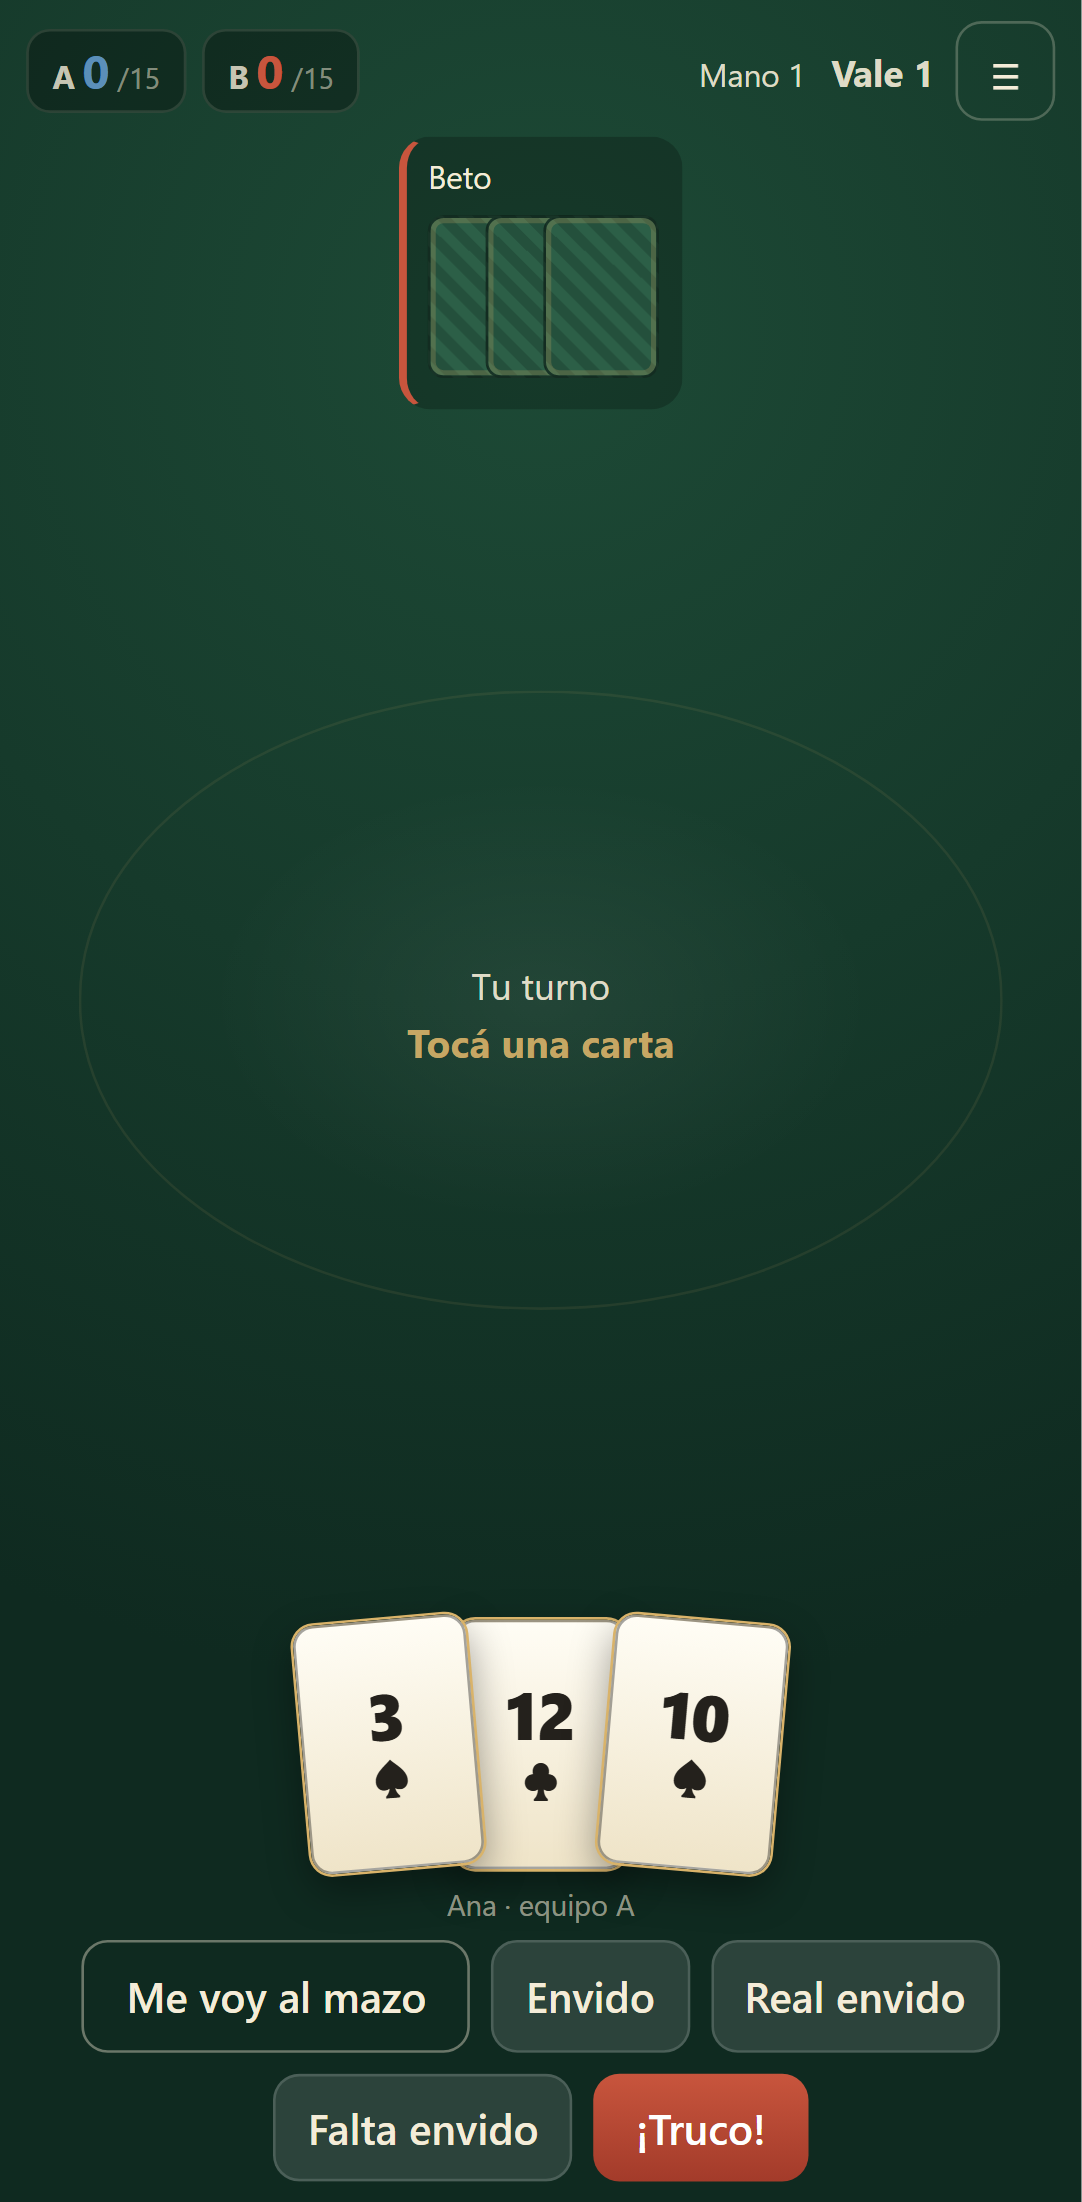
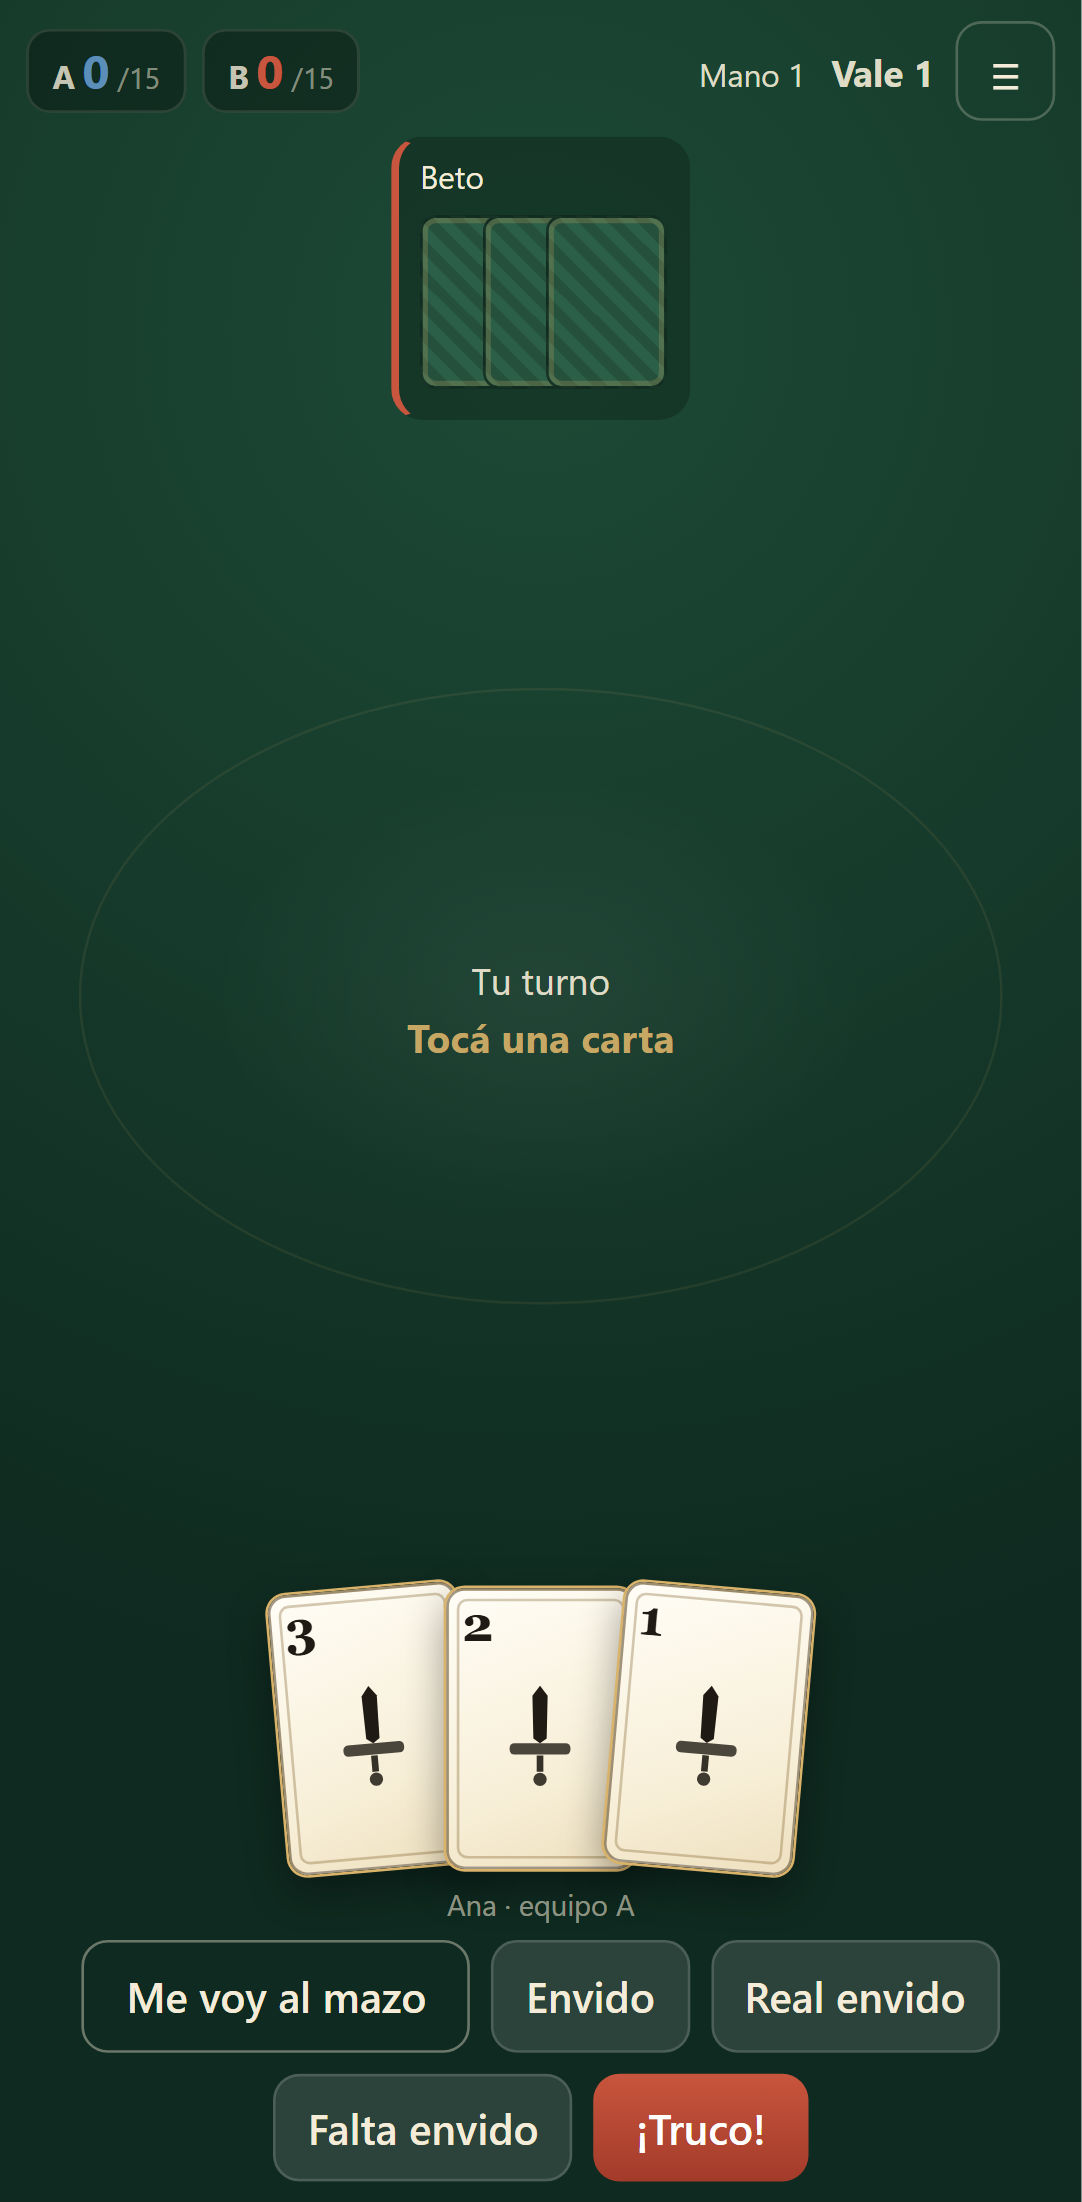
Cliente web: baraja espanola (espada, basto, oro y copa) en SVG
- iconos de palo dibujados inline, sin fuentes ni imagenes remotas
- carta con doble filete, numero serif en la esquina y nombre de figura (sota/caballo/rey)
- capturas actualizadas

Changed region(s): [[0.244, 0.7103, 0.7625, 0.8647], [0.3355, 0.0618, 0.6405, 0.1853], [0.366, 0.4323, 0.61, 0.4941]]

diff --git a/web/src/estilos.css b/web/src/estilos.css
@@ -418,7 +418,7 @@ input:focus-visible {
 .rival-cartas {
   display: flex;
   align-items: flex-end;
-  min-height: 64px;
+  min-height: 68px;
 }
 
 .rival-cartas > * + * {
@@ -575,8 +575,8 @@ input:focus-visible {
 }
 
 .mi-mano .carta {
-  width: clamp(56px, 16vw, 72px);
-  height: clamp(82px, 23vw, 104px);
+  width: clamp(62px, 17.5vw, 78px);
+  height: clamp(90px, 26vw, 114px);
 }
 
 .acciones {
@@ -609,62 +609,103 @@ input:focus-visible {
 /* ------------------------------------------------------------------ cartas */
 
 .carta {
-  width: clamp(50px, 14vw, 66px);
-  height: clamp(74px, 20vw, 96px);
-  border-radius: 8px;
-  border: 1px solid rgba(0, 0, 0, 0.35);
-  background: linear-gradient(#fffdf5, #efe4c8);
-  color: #22201b;
+  position: relative;
+  width: clamp(58px, 17vw, 74px);
+  height: clamp(86px, 24vw, 108px);
+  border-radius: 7px;
+  border: 1px solid rgba(70, 50, 20, 0.5);
+  background: linear-gradient(160deg, #fffdf6, #f7eed6 68%, #eee0bf);
+  color: #211d16;
   display: flex;
-  flex-direction: column;
   align-items: center;
   justify-content: center;
-  gap: 2px;
   padding: 0;
-  box-shadow: 0 3px 8px rgba(0, 0, 0, 0.35);
+  box-shadow: 0 3px 9px rgba(0, 0, 0, 0.4);
   transition: transform 0.14s ease, box-shadow 0.14s ease;
   flex: none;
+  overflow: hidden;
+}
+
+/* doble filete de la baraja española */
+.carta::after {
+  content: "";
+  position: absolute;
+  inset: 3px;
+  border: 1px solid rgba(122, 90, 35, 0.32);
+  border-radius: 4px;
+  pointer-events: none;
 }
 
 .carta-numero {
-  font-size: clamp(20px, 6vw, 26px);
-  font-weight: 800;
+  position: absolute;
+  top: 4px;
+  left: 5px;
+  font-family: Georgia, "Times New Roman", serif;
+  font-size: clamp(15px, 4.6vw, 19px);
+  font-weight: 700;
   line-height: 1;
   font-variant-numeric: tabular-nums;
 }
 
 .carta-palo {
-  font-size: clamp(16px, 5vw, 21px);
-  line-height: 1;
+  display: flex;
+  justify-content: center;
+  width: 62%;
+  max-width: 46px;
+  margin-top: 7px;
+}
+
+.carta-icono-svg {
+  width: 100%;
+  height: auto;
+  display: block;
+}
+
+.carta-figura {
+  position: absolute;
+  bottom: 3px;
+  left: 0;
+  right: 0;
+  text-align: center;
+  font-family: Georgia, "Times New Roman", serif;
+  font-size: 7.5px;
+  letter-spacing: 0.02em;
+  opacity: 0.7;
 }
 
 .carta.chica {
-  width: 44px;
-  height: 62px;
-  border-radius: 6px;
-  gap: 1px;
-  padding: 0;
+  width: 46px;
+  height: 66px;
+  border-radius: 5px;
 }
 
 .carta.chica .carta-numero {
-  font-size: 17px;
+  font-size: 13px;
+  top: 3px;
+  left: 4px;
 }
 
 .carta.chica .carta-palo {
-  font-size: 14px;
+  width: 62%;
+  max-width: 30px;
+  margin-top: 5px;
+}
+
+.carta.chica .carta-figura {
+  display: none;
 }
 
 .palo-espada,
 .palo-basto {
-  color: #24211c;
+  color: #1f1b14;
 }
 
 .palo-oro {
-  color: #9a7415;
+  color: #9c7416;
 }
 
 .palo-copa {
-  color: #a12b26;
+  color: #a82a24;
 }
 
 .carta:disabled {
@@ -701,8 +742,8 @@ input:focus-visible {
 
 .dorso {
   display: inline-block;
-  width: 44px;
-  height: 62px;
+  width: 46px;
+  height: 66px;
   border-radius: 6px;
   background: repeating-linear-gradient(45deg, #2c5f47, #2c5f47 4px, #24503c 4px, #24503c 8px);
   border: 1px solid rgba(0, 0, 0, 0.45);

diff --git a/web/src/ui/Palos.tsx b/web/src/ui/Palos.tsx
@@ -1,0 +1,94 @@
+import type { Palo } from "../tipos";
+
+/**
+ * Palos de la baraja española dibujados como SVG inline.
+ * Usan `currentColor` para heredar el color del palo (negro o rojo) y se leen
+ * igual a 40 px que a 90 px. Sin fuentes ni imágenes remotas.
+ */
+export function IconoPalo({ palo }: { palo: Palo }) {
+  return (
+    <svg viewBox="0 0 24 24" className="carta-icono-svg" aria-hidden="true" focusable="false">
+      {palo === "ESPADA" && (
+        <>
+          {/* hoja ancha con hombros y punta */}
+          <path d="M12 1.2 13.6 3.3 13.4 12.3 12 13.3 10.6 12.3 10.4 3.3Z" fill="currentColor" />
+          {/* guarda */}
+          <path
+            d="M6.6 13.3h10.8a1 1 0 0 1 1 1v.4a1 1 0 0 1-1 1H6.6a1 1 0 0 1-1-1v-.4a1 1 0 0 1 1-1Z"
+            fill="currentColor"
+            opacity="0.8"
+          />
+          {/* empuñadura y pomo */}
+          <path d="M11.3 15.9h1.4v3.4h-1.4z" fill="currentColor" opacity="0.9" />
+          <circle cx="12" cy="20.9" r="1.4" fill="currentColor" opacity="0.85" />
+        </>
+      )}
+
+      {palo === "BASTO" && (
+        <>
+          {/* tronco nudoso */}
+          <path
+            d="M6.1 21.9 15.9 4.1"
+            stroke="currentColor"
+            strokeWidth="4.6"
+            strokeLinecap="round"
+            fill="none"
+          />
+          <path
+            d="M6.1 21.9 15.9 4.1"
+            stroke="#fffdf7"
+            strokeOpacity="0.22"
+            strokeWidth="1.5"
+            strokeLinecap="round"
+            fill="none"
+          />
+          {/* nudos */}
+          <g fill="#fffdf7" fillOpacity="0.5">
+            <circle cx="8.9" cy="17.5" r="1.1" />
+            <circle cx="11.2" cy="13.5" r="0.95" />
+            <circle cx="13.4" cy="9.7" r="0.85" />
+          </g>
+        </>
+      )}
+
+      {palo === "ORO" && (
+        <>
+          {/* moneda */}
+          <circle cx="12" cy="12" r="8.7" fill="currentColor" opacity="0.92" />
+          <circle
+            cx="12"
+            cy="12"
+            r="6.6"
+            fill="none"
+            stroke="#fffdf7"
+            strokeOpacity="0.5"
+            strokeWidth="0.8"
+          />
+          {/* sol: disco y rayos */}
+          <circle cx="12" cy="12" r="3.1" fill="#fffdf7" fillOpacity="0.85" />
+          <g stroke="#fffdf7" strokeOpacity="0.7" strokeWidth="1.1" strokeLinecap="round">
+            <path d="M12 6.5v1.9M12 15.6v1.9M6.5 12h1.9M15.6 12h1.9" />
+            <path d="M8.1 8.1l1.4 1.4M14.5 14.5l1.4 1.4M15.9 8.1l-1.4 1.4M9.5 14.5l-1.4 1.4" />
+          </g>
+        </>
+      )}
+
+      {palo === "COPA" && (
+        <>
+          {/* copa */}
+          <path d="M6.6 3.9h10.8c0 5-2.1 7.6-5.4 7.6S6.6 8.9 6.6 3.9Z" fill="currentColor" />
+          {/* pie */}
+          <path d="M11.1 11.5h1.8v4.3h-1.8z" fill="currentColor" opacity="0.9" />
+          <path d="M7.6 20.7c0-2.3 1.8-3.6 4.4-3.6s4.4 1.3 4.4 3.6Z" fill="currentColor" />
+        </>
+      )}
+    </svg>
+  );
+}
+
+/** Nombres de las figuras en la baraja española (10, 11 y 12). */
+export const FIGURA: Record<number, string> = {
+  10: "sota",
+  11: "caballo",
+  12: "rey",
+};

diff --git a/web/src/ui/Carta.tsx b/web/src/ui/Carta.tsx
@@ -1,5 +1,6 @@
-import { NOMBRE_PALO, SIMBOLO_PALO } from "../net/cliente";
+import { NOMBRE_PALO } from "../net/cliente";
 import type { Carta as CartaDto } from "../tipos";
+import { FIGURA, IconoPalo } from "./Palos";
 
 interface Props {
   carta: CartaDto;
@@ -20,6 +21,8 @@ export function Carta({ carta, jugable = false, elegida = false, chica = false, 
     .filter(Boolean)
     .join(" ");
 
+  const figura = FIGURA[carta.numero];
+
   return (
     <button
       type="button"
@@ -29,9 +32,10 @@ export function Carta({ carta, jugable = false, elegida = false, chica = false, 
       aria-label={`${carta.numero} de ${NOMBRE_PALO[carta.palo]}`}
     >
       <span className="carta-numero">{carta.numero}</span>
-      <span className="carta-palo" aria-hidden="true">
-        {SIMBOLO_PALO[carta.palo]}
+      <span className="carta-palo">
+        <IconoPalo palo={carta.palo} />
       </span>
+      {figura && <span className="carta-figura">{figura}</span>}
     </button>
   );
 }

diff --git a/web/src/net/cliente.ts b/web/src/net/cliente.ts
@@ -268,13 +268,6 @@ export function urlWebSocket(): string {
 
 // ------------------------------------------------------------------ utilidades de presentación
 
-export const SIMBOLO_PALO: Record<Palo, string> = {
-  ESPADA: "♠",
-  BASTO: "♣",
-  ORO: "◉",
-  COPA: "♥",
-};
-
 export const NOMBRE_PALO: Record<Palo, string> = {
   ESPADA: "espada",
   BASTO: "basto",

diff --git a/docs/05-ROADMAP.md b/docs/05-ROADMAP.md
@@ -63,6 +63,9 @@ sin bugs bloqueantes; el layout no rompe en 360×640 ni en pantallas con notch.
 - Mesa mobile-first: tanteador, “vale N”, carta de mano, bazas con parda, cartas rivales boca abajo
   (o reveladas al cerrarse la mano), panel de cantos con countdown real del servidor, historia de la
   mano y botón de mazo.
+- **Baraja española de verdad**: palos de espada, basto, oro y copa dibujados como SVG inline (nada de
+  ♠♥♦♣), con doble filete, número en serif y el nombre de la figura (sota/caballo/rey) en el 10/11/12.
+  Sin fuentes ni imágenes remotas: los iconos heredan el color del palo (negro o rojo).
 - Solo se ofrecen las acciones que manda `legalActions`: el cliente no conoce las reglas.
 - Jugar una carta requiere **dos toques** (elegir + confirmar) para evitar errores en el teléfono.
 - Reconexión automática con backoff, `ping` cada 10 s, token en `localStorage` (`rejoin`), y al volver
